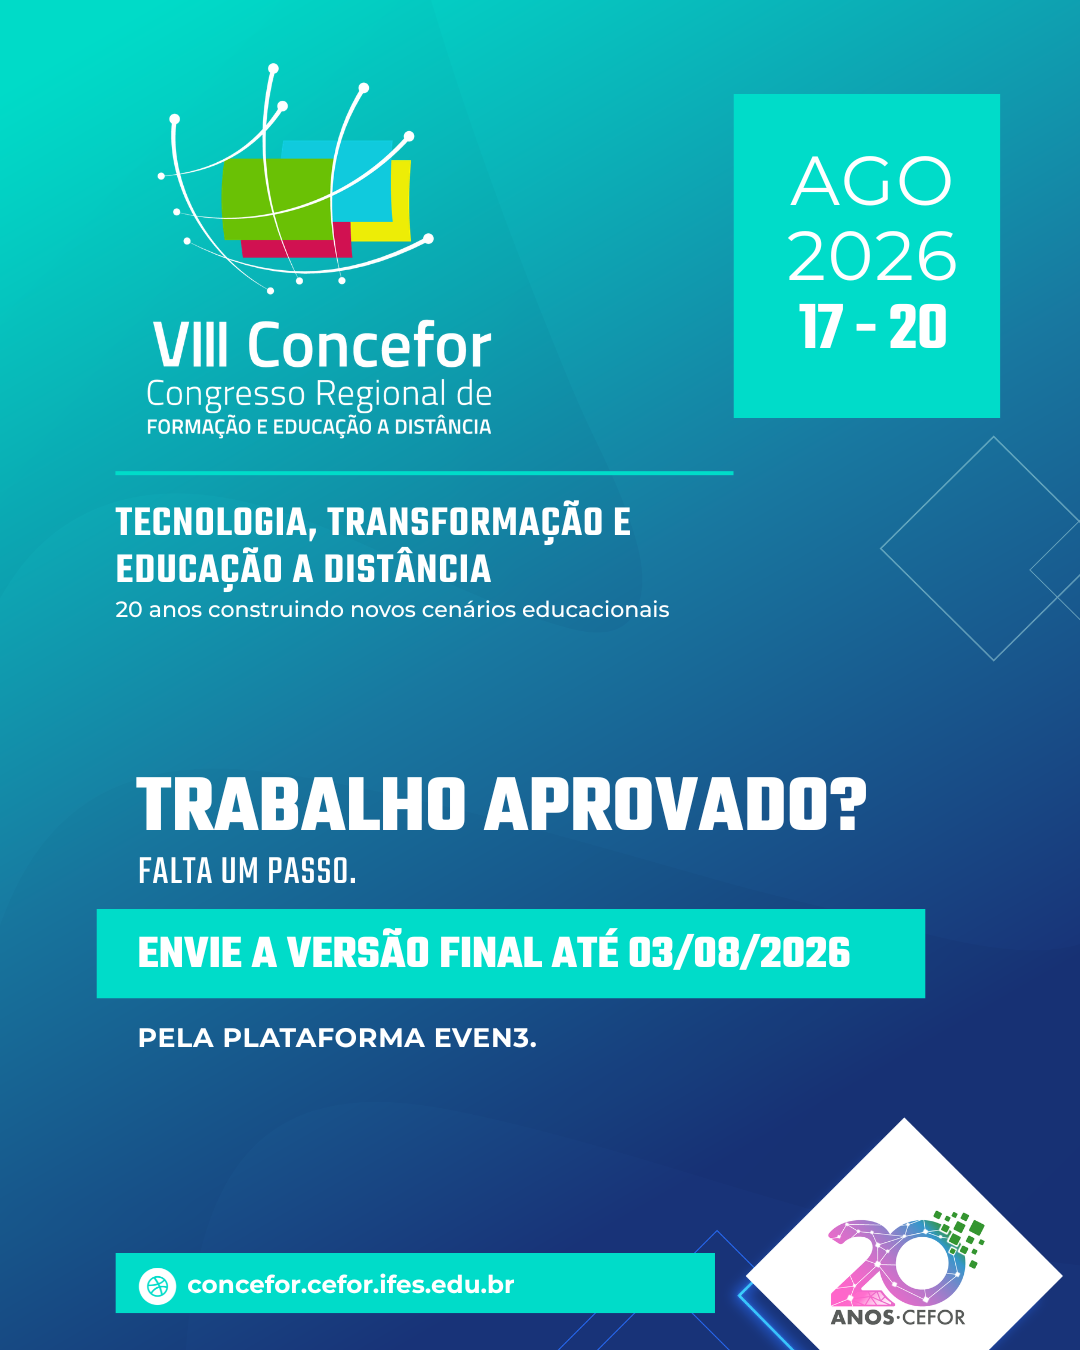
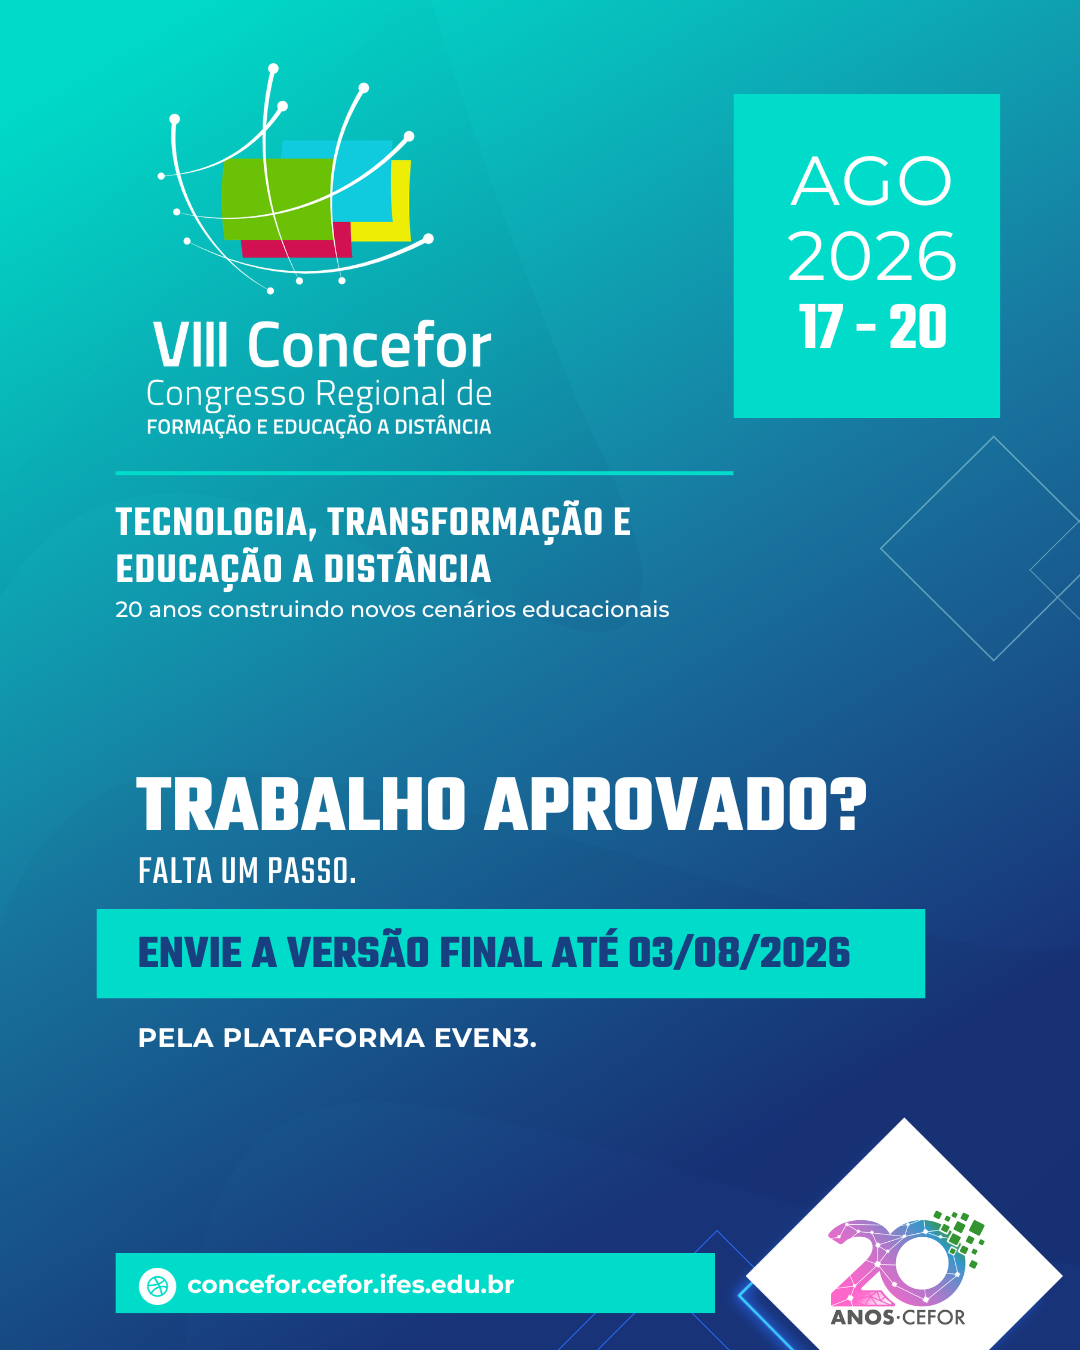
comunicacao: plano de podcasts do evento + transmissão/Libras em todas as palestras e mesas
Cria plano-podcasts.md (5 episódios, janelas fora das transmissões,
roteiro por transcrição, host pela Coordenação, termo de autorização
de imagem), atualiza escalas e board; responsáveis: Elton (a princípio)
nas peças de pré-evento, Andreia na arte do bolo 20 anos.

Changed region(s): [[0.1222, 0.6844, 0.7944, 0.7156]]

diff --git a/comunicacao/producao/03-durante-evento/podcasts/plano-podcasts.md b/comunicacao/producao/03-durante-evento/podcasts/plano-podcasts.md
@@ -1,0 +1,66 @@
+# Plano — Podcasts durante o VIII Concefor (17–20/08)
+
+> Gravações com palestrantes durante o evento. Escala resumida em
+> [distribuicao-equipe.md](../../../planejamento/distribuicao-equipe.md).
+> Decisões-base (16/07): transmissão + Libras em **todas as palestras e mesas-redondas**;
+> por isso, **nenhum podcast pode ser gravado durante uma transmissão** — Leo, Tiago e Nanda
+> estarão no evento, mas ocupados com transmissão/cobertura nesses momentos.
+
+## Premissas (fixas)
+
+1. **Sem conflito com transmissão:** podcast só nas janelas em que não há palestra/mesa
+   sendo transmitida (mostras, sessões técnicas, almoço, pós-coffee).
+2. **Roteiro por episódio**, baseado em três fontes: a **palestra** em si, o **tema/trajetória
+   do palestrante** e a **transcrição da palestra** → a gravação acontece **depois** da fala
+   do convidado, com tempo hábil para gerar o roteiro.
+3. **Host:** um host por podcast, **definido pela Coordenação do Concefor** (🔴 pendência — Márcia).
+4. **Autorização de imagem:** o convidado assina o **termo de autorização de uso de imagem e
+   voz antes de gravar** (🔴 providenciar modelo — verificar se o Ifes tem termo institucional).
+
+## Episódios e janelas de gravação propostas
+
+Janelas escolhidas para (a) virem **depois** da fala do convidado e (b) não coincidirem com
+nenhuma transmissão. Confirmar disponibilidade de cada convidado com antecedência.
+
+| # | Convidado | Fala no evento | Gravação proposta | Alternativa |
+|---|---|---|---|---|
+| 1 | Vanessa Battestin | 17/08 19h (abertura) | **18/08 8h00–9h00** (durante a mostra) | 18/08 12h–13h30 (almoço) |
+| 2 | Mesa "Tecnologia Delas" (1–2 participantes) | 18/08 9h30 | **18/08 12h00–13h30** (almoço) | 18/08 13h30–14h15 (sessões técnicas) |
+| 3 | Felipe Tessarolo | 18/08 14h30 | **18/08 16h20–17h00** (pós-coffee) | 19/08 8h00–9h00 |
+| 4 | Mesa "Desafios da EaD" (Rutinelli + convidado) | 19/08 9h30 | **19/08 12h00–13h30** (almoço) | 19/08 13h30–14h15 (sessões técnicas) |
+| 5 | Mariano Pimentel | 19/08 14h30 | **19/08 16h20–17h00** (pós-coffee) | 20/08 12h–13h30 |
+| — | Repescagem / episódio extra | — | **20/08 12h00–13h30** (almoço) | — |
+
+⚠️ Horários que **nunca** podem receber podcast (transmissão no ar): 17/08 18h30–20h ·
+18/08 9h30–11h30 e 14h30–16h · 19/08 9h30–11h30 e 14h30–16h · 20/08 16h (premiação).
+
+## Fluxo por episódio
+
+1. **Antes do evento:** convite ao palestrante (encaixar na mensagem que já vai pedir o
+   vídeo-convite ou em contato separado) + termo de autorização impresso + pauta-base pelo tema.
+2. **Palestra acontece** → transcrição gerada (gravação da transmissão; o app do Concefor também
+   prevê transcrição — e o NotebookLM do Concefor, card Kanboard #7824, é a ferramenta natural
+   para transformar transcrição em roteiro).
+3. **Roteiro de perguntas** gerado a partir de palestra + tema + transcrição; revisão humana
+   pelo host antes da gravação.
+4. **Assinatura do termo** de autorização de imagem/voz (sem assinatura, não grava).
+5. **Gravação** na janela planejada (equipe: quem estiver livre entre Leo/Tiago/Nanda).
+6. **Edição e publicação** (definir: durante o evento ou pós-evento).
+
+## Estrutura-base do roteiro (por episódio)
+
+- Abertura: quem é o convidado (30s, host)
+- Bloco 1 — a palestra: 2–3 perguntas sobre os pontos mais fortes da fala (da transcrição —
+  incluindo o que gerou mais reação no app, se disponível)
+- Bloco 2 — o tema: 2–3 perguntas sobre a trajetória/tema do convidado
+- Bloco 3 — 20 anos: 1 pergunta conectando com os 20 anos do Cefor / futuro da EaD
+- Encerramento: recado do convidado + convite ao Concefor seguinte
+
+## Pendências
+
+- [ ] 🔴 **Hosts** — Coordenação do Concefor define (cobrar da Márcia; 1 por episódio)
+- [ ] 🔴 **Termo de autorização de uso de imagem e voz** — obter/adaptar modelo (Ifes tem?)
+- [ ] Local fixo de gravação (sala silenciosa) + kit de áudio/vídeo
+- [ ] Confirmar janelas com cada convidado
+- [ ] Responsável por edição e canal/data de publicação
+- [ ] Confirmar quem grava em cada janela (escala Leo/Tiago/Nanda fora da transmissão)

diff --git a/comunicacao/planejamento/board-producao.md b/comunicacao/planejamento/board-producao.md
@@ -12,25 +12,25 @@
 | Arte canetas | ___ | ___ | ⬜ |
 | Arte camisas | ___ | ___ | ⬜ |
 | Arte crachá (confirmar) | ___ | ___ | ⬜ |
-| Arte bolo comemoração | ___ | ___ | ⬜ |
+| Arte bolo comemoração (20 anos do Cefor) | **Andreia** | ___ | ⬜ |
 | Arte sacola de algodão | ___ | ___ | ⬜ |
 
 ## Pré-evento
 | Peça | Responsável | Prazo | Status |
 |---|---|---|---|
 | 🔴 **Card lembrete prazo envio final (03/08 · Even3)** — arte + legendas prontas, falta publicar | Elton | **16/07** | 🔵 |
-| Card palestrante — Vanessa Battestin | ___ | publicar 21/07 | ⬜ |
-| Card palestrante — Tessarolo | ___ | publicar 24/07 | ⬜ |
-| Card palestrante — Mariano Pimentel | ___ | publicar 28/07 | ⬜ |
-| Card mesa "Tecnologia Delas" | ___ | publicar 31/07 | ⬜ |
-| Card mesa "Desafios da EaD" | ___ | publicar 04/08 | ⬜ |
-| Mensagem aos palestrantes (pedido de vídeo) | ___ | enviar até 18/07 | ⬜ |
-| Vídeos-convite dos palestrantes (receber até 03/08) | ___ | reels 08–14/08 | ⬜ |
-| Cards eventos paralelos (aguardando Educimat; **publicar tudo junto** após liberação da Márcia) | ___ | sugerido 01–06/08 | ⬜ |
-| Contagem regressiva (10 peças) | ___ | 07–17/08 | ⬜ |
-| Banners institucionais — livro, MOOCs, Base de Conhecimentos (pedido Vanessa 14/07) | ___ | arte até **01/08** → gráfica | ⬜ |
-| Notícia do Concefor para ACS (site/Notícias Ifes) — CGTE ajuda Márcia a redigir | ___ | antes de 15/08 | ⬜ |
-| Divulgação dos lançamentos (livro Cefor, Base de Conhecimentos, vitrine MOOCs, livro NTE, "AI no Moodle do Ifes") — pode ir em carrossel com chamada de inscrição | ___ | ___ | ⬜ |
+| Card palestrante — Vanessa Battestin | Elton *(a princípio)* | publicar 21/07 | ⬜ |
+| Card palestrante — Tessarolo | Elton *(a princípio)* | publicar 24/07 | ⬜ |
+| Card palestrante — Mariano Pimentel | Elton *(a princípio)* | publicar 28/07 | ⬜ |
+| Card mesa "Tecnologia Delas" | Elton *(a princípio)* | publicar 31/07 | ⬜ |
+| Card mesa "Desafios da EaD" | Elton *(a princípio)* | publicar 04/08 | ⬜ |
+| Mensagem aos palestrantes (pedido de vídeo) | Elton *(a princípio)* | enviar até 18/07 | ⬜ |
+| Vídeos-convite dos palestrantes (receber até 03/08) | Elton *(a princípio)* | reels 08–14/08 | ⬜ |
+| Cards eventos paralelos (aguardando Educimat; **publicar tudo junto** após liberação da Márcia) | Elton *(a princípio)* | sugerido 01–06/08 | ⬜ |
+| Contagem regressiva (10 peças) | Elton *(a princípio)* | 07–17/08 | ⬜ |
+| Banners institucionais — livro, MOOCs, Base de Conhecimentos (pedido Vanessa 14/07) | Elton *(a princípio)* | arte até **01/08** → gráfica | ⬜ |
+| Notícia do Concefor para ACS (site/Notícias Ifes) — CGTE ajuda Márcia a redigir | Elton *(a princípio)* | antes de 15/08 | ⬜ |
+| Divulgação dos lançamentos (livro Cefor, Base de Conhecimentos, vitrine MOOCs, livro NTE, "AI no Moodle do Ifes") — pode ir em carrossel com chamada de inscrição | Elton *(a princípio)* | ___ | ⬜ |
 | Divulgação do lançamento do app (e-mail aos inscritos + QR codes no evento) | Marquito / Elton | lançamento **07/08** | ⬜ |
 
 > Plano detalhado: [plano-divulgacao-palestrantes.md](../producao/02-pre-evento/palestrantes/plano-divulgacao-palestrantes.md)
@@ -40,9 +40,9 @@
 |---|---|---|
 | Cobertura fotográfica | Tiago / Leonardo / Nanda | ⬜ |
 | Redes ao vivo (reels/stories) | ___ | ⬜ |
-| Podcasts com palestrantes | ___ | ⬜ |
-| Transmissão ao vivo (Márcia: **todas as palestras serão transmitidas**; reserva com o Thiago) | Tiago / Leonardo | ⬜ |
-| Interpretação Libras (🔴 aguardando **checklist transmissão/gravação** da Márcia — urgente p/ equipe; Dulce buscando mais intérpretes) | Carol / Eliana | ⬜ |
+| Podcasts com palestrantes — [plano pronto](../producao/03-durante-evento/podcasts/plano-podcasts.md) (5 episódios); 🔴 falta: hosts (Coordenação) + termo de autorização de imagem | Leo / Tiago / Nanda | 🟡 |
+| Transmissão ao vivo — ✅ **todas as palestras e mesas-redondas** (decidido 16/07); reserva com o Thiago | Tiago / Leonardo | ⬜ |
+| Interpretação Libras — ✅ em **todas as palestras e mesas-redondas**; Dulce buscando mais intérpretes | Carol / Eliana | ⬜ |
 
 ## Ideias
 | Iniciativa | Responsável | Status |

diff --git a/comunicacao/planejamento/distribuicao-equipe.md b/comunicacao/planejamento/distribuicao-equipe.md
@@ -14,6 +14,7 @@
 > Preencher nomes (Tiago / Leonardo / Nanda) por célula.
 
 ## Escala de transmissão ao vivo
+> ✅ Decidido (16/07): **todas as palestras e mesas-redondas** têm transmissão ao vivo **com Libras**.
 | Palestra / mesa | Data/hora | Operador(es) | Plataforma |
 |---|---|---|---|
 | Palestra abertura — Vanessa Battestin | 17/08 19h | ___ | ___ |
@@ -34,11 +35,18 @@
 | Premiação | 20/08 16h | ___ |
 
 ## Plano de podcasts com palestrantes
-| Convidado | Janela de gravação | Pauta | Entrevistador | Edição |
-|---|---|---|---|---|
-| Felipe Tessarolo | 18/08 (após palestra) | IA, OU, acessibilidade | ___ | ___ |
-| Mariano Pimentel | 19/08 (após palestra) | IA generativa e educação | ___ | ___ |
-| Vanessa Battestin | 17/08 | 20 anos de EaD e o Cefor | ___ | ___ |
-| Mesa "Tecnologia Delas" | 18/08 | mulheres e tecnologia | ___ | ___ |
+> 📋 **Plano completo** (premissas, fluxo, roteiro, pendências):
+> [plano-podcasts.md](../producao/03-durante-evento/podcasts/plano-podcasts.md)
+> Regras: gravação **sempre após a fala** do convidado (roteiro usa a transcrição) e **nunca
+> durante uma transmissão**. Host de cada episódio: **Coordenação do Concefor define** (🔴 pendente).
 
+| Convidado | Gravação proposta | Pauta | Host (Coordenação) | Edição |
+|---|---|---|---|---|
+| Vanessa Battestin | 18/08 8h–9h (alt.: almoço 18/08) | 20 anos de EaD e o Cefor | ___ | ___ |
+| Mesa "Tecnologia Delas" | 18/08 12h–13h30 | mulheres e tecnologia | ___ | ___ |
+| Felipe Tessarolo | 18/08 16h20–17h (pós-coffee) | IA, OU, acessibilidade | ___ | ___ |
+| Mesa "Desafios da EaD" | 19/08 12h–13h30 | futuro da EaD | ___ | ___ |
+| Mariano Pimentel | 19/08 16h20–17h (pós-coffee) | IA generativa e educação | ___ | ___ |
+
+> Antes de gravar: **termo de autorização de imagem/voz assinado** (modelo a providenciar).
 > Definir: local fixo de gravação, kit de áudio/vídeo, e responsável por publicação.

diff --git a/comunicacao/producao/03-durante-evento/README.md b/comunicacao/producao/03-durante-evento/README.md
@@ -16,12 +16,13 @@
 - Reels de destaques (abertura, palestras internacionais, premiação).
 
 ### C) Podcasts com palestrantes
-- Planejar pauta, agenda de gravação e distribuição da equipe.
-- Candidatos naturais: Tessarolo, Mariano Pimentel, Vanessa Battestin, mesa "Tecnologia Delas".
-- Planejamento em [distribuicao-equipe.md](../../planejamento/distribuicao-equipe.md).
+- 📋 **Plano completo:** [podcasts/plano-podcasts.md](podcasts/plano-podcasts.md) — 5 episódios,
+  janelas fora das transmissões, roteiro baseado em palestra + tema + transcrição.
+- Gravação sempre **após a fala** do convidado; **nunca** durante transmissão (Leo/Tiago/Nanda ocupados).
+- 🔴 Pendente: **hosts** (Coordenação do Concefor define) e **termo de autorização de imagem/voz**.
 
 ### D) Transmissão ao vivo (simultânea)
-- Palestras e mesas-redondas transmitidas ao vivo.
+- ✅ Decidido (16/07): **todas as palestras e mesas-redondas** transmitidas ao vivo.
 - Definir plataforma (YouTube?), equipamentos, operadores e sala de controle.
 - Responsáveis: Tiago, Leonardo + apoio.
 

diff --git a/comunicacao/README.md b/comunicacao/README.md
@@ -67,9 +67,10 @@ comunicacao/
   Notificação de aceite dos trabalhos saiu em 13/07.
 - **Inscritos:** já passou de 100 (capacidade: 400) — calibrar divulgação pela ocupação.
 - **Próximos prazos externos:** envio final dos trabalhos até **03/08 (Even3)** · inscrições até 15/08.
-- **Aguardando da Márcia:** 🔴 checklist do que terá **transmissão/gravação** (urgente p/ equipe e
-  Libras) · infos da Aula Inaugural do Educimat (p/ divulgar os paralelos **tudo junto**) ·
-  logo do Educimat p/ impressos.
+- **Transmissão + Libras:** ✅ definido — **todas as palestras e mesas-redondas** (16/07).
+- **Aguardando da Márcia/Coordenação:** 🔴 **hosts dos podcasts** (1 por episódio — ver
+  [plano](producao/03-durante-evento/podcasts/plano-podcasts.md)) · infos da Aula Inaugural do
+  Educimat (p/ divulgar os paralelos **tudo junto**) · logo do Educimat p/ impressos.
 - **Prioridades de comunicação agora:**
   1. 🔴 [Card lembrete do prazo de envio final 03/08](producao/02-pre-evento/card-prazo-envio-final/brief.md) — **fazer hoje**
   2. Iniciar cards de palestrantes ([plano](producao/02-pre-evento/palestrantes/plano-divulgacao-palestrantes.md)) — 1º card em 21/07